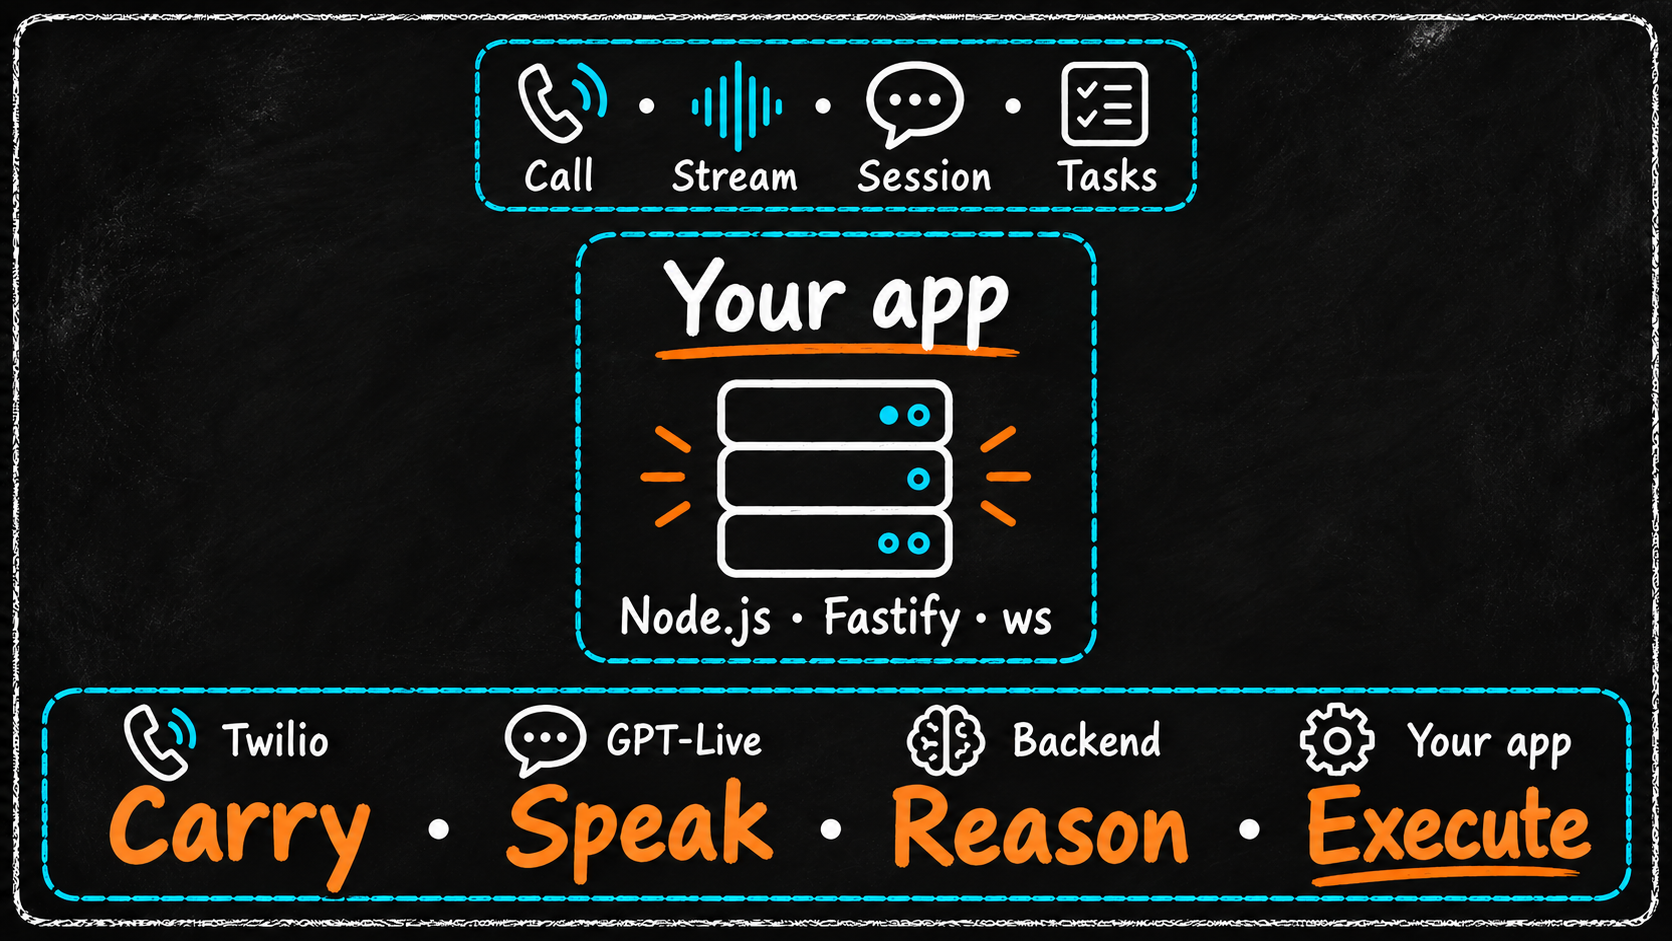
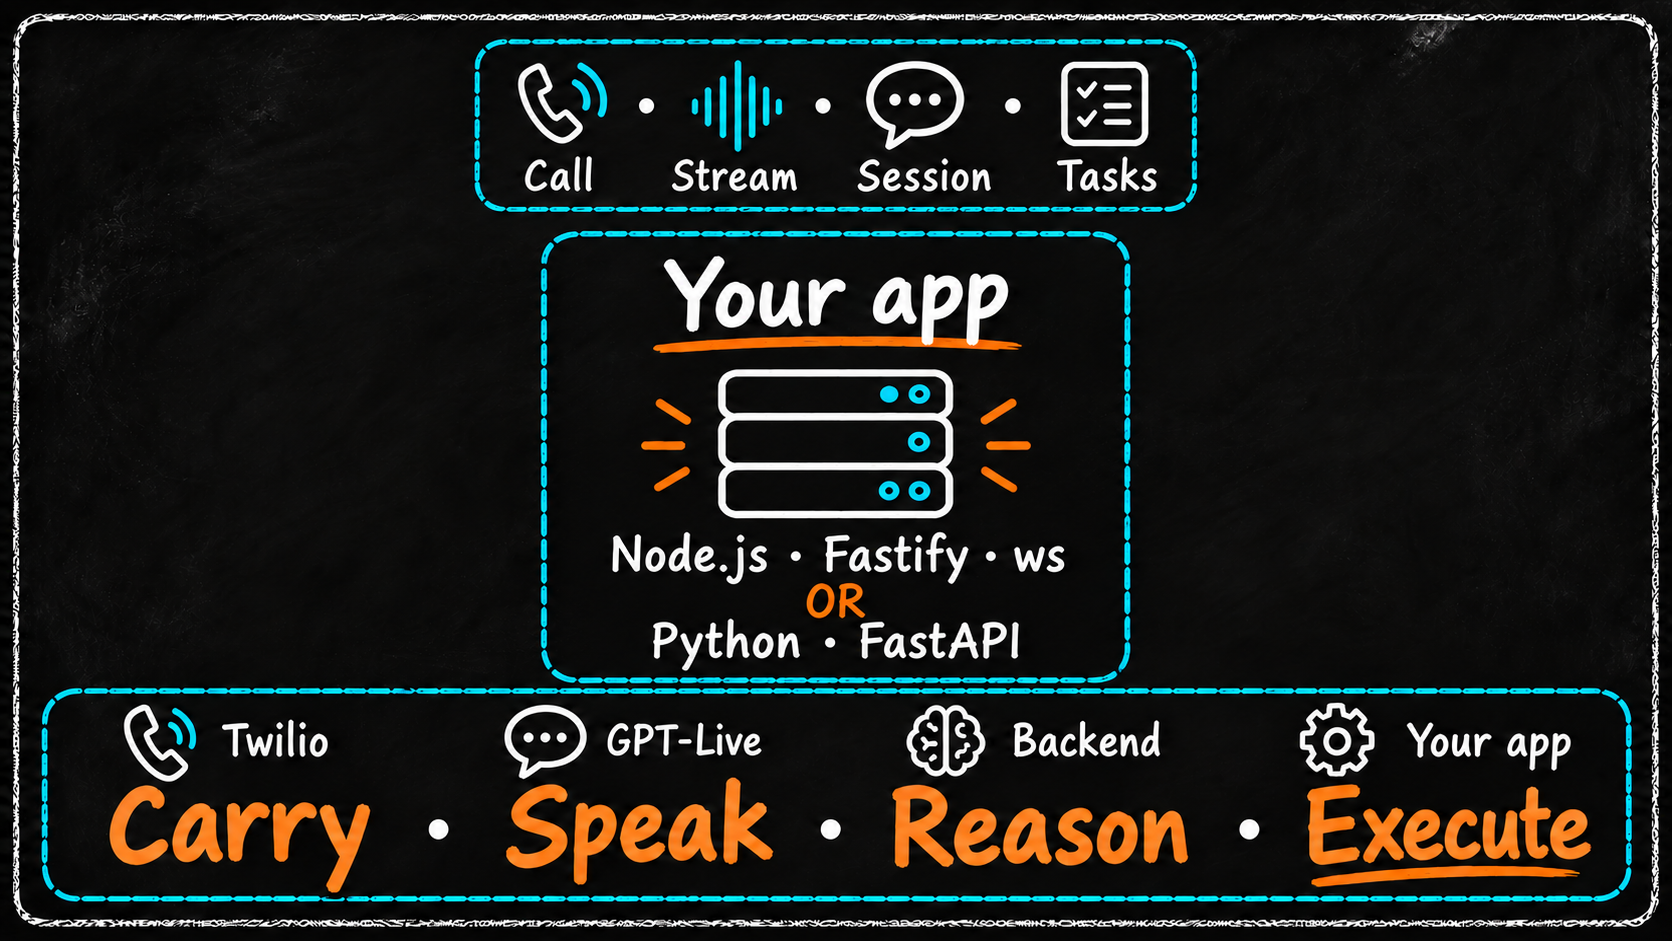
Use responsibilities diagram showing Python and Node.js options

diff --git a/README.md b/README.md
@@ -27,10 +27,8 @@ flowchart LR
 
 ![Responsibilities: Twilio carries the call, GPT-Live speaks, the delegated backend reasons, and the application executes functions.](docs/images/01-responsibilities.png)
 
-> **Framework note:** the illustration labels the application as
-> `Node.js · Fastify · ws`. This repository implements that role with **Python,
-> FastAPI, and websockets**. The responsibilities and connection boundaries are
-> the same.
+> **Implementation:** the illustration shows alternative application stacks.
+> This repository uses **Python, FastAPI, and websockets**.
 
 | Component | Responsibility in this project |
 | --- | --- |
